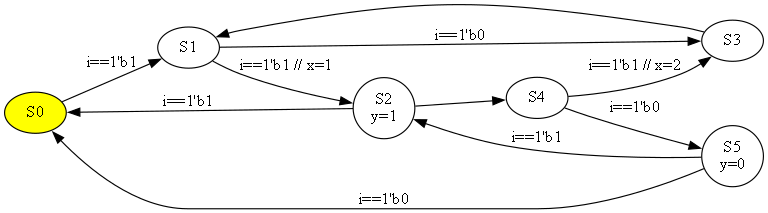
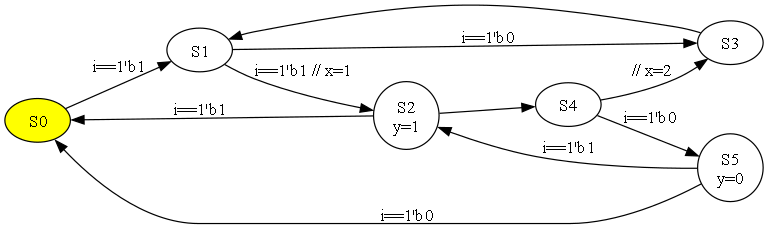
mod README

diff --git a/README.md b/README.md
@@ -1,52 +1,60 @@
 # FsmLog
-Source is a hjson file.
+Sources are Yaml format.
+
 ```
-{
-
-inputs : {
-// width
+inputs : 
+# width
     i : 1
-}
 
-outputs : {
-// width,  t/h
-    y : [1,  1]
-}
 
-vars : { // internal
-// width,  t/h
-    x : [8,  0]
-}
+outputs : 
+# width,  trig/hold/wire
+    y : [1,  hold]
 
-fsm : {
-    S0 : {S1 : "i==1'b1"}
 
-    S1 : {S2 : {+ : "i==1'b1", x : 1}
-          S3 : "i==1'b0"}
+vars :  # internal
+# width,  t/h
+    x : [8,  trig]
+    f : [1,  wire, ~x]
 
-    S2 : {S0 : "i==1'b1"
-          S4 : ""
-          y  : 1}
+
+fsm : 
+    S0 : {S1 : i==1'b1}
+
+    S1 : 
+        S2 :
+            + : i==1'b1
+            x : 1
+
+        S3 : i==1'b0
+
+    S2 : 
+        S0 : i==1'b1
+        S4 : ''   # Unconditional jump
+        y  : 1
 
     S3 :  S1
 
-    S4 : {S5 : "i==1'b0"
-          S3 : {+ : "i==1'b1", x : 2} }
+    S4 : 
+        S5 : i==1'b0
+        S3 : 
+            # Order is priority, and Unconditional must be at the end
+            x : 2
 
-    S5 : {S0 : "i==1'b0"
-          S2 : "i==1'b1"
-          y  : 0}
-}
+    S5 : 
+        S0 : i==1'b0
+        S2 : i==1'b1
+        y  : 0
+```
 
-}
+To generate Verilog-HDL & dot-Graph from a source file.
 ```
-To generate Verilog-HDL & dot-Graph from a hjson file.
-```
-$ python fsmlog.py example/test.hson
+$ python fsmlog.py example/test.yaml
 ```
 
 To view [dot-Graph](http://www.graphviz.org/)
 ```
 $ dot -Tpng test.gv -o test.png
 ```
+
 ![](./example/test.png)
